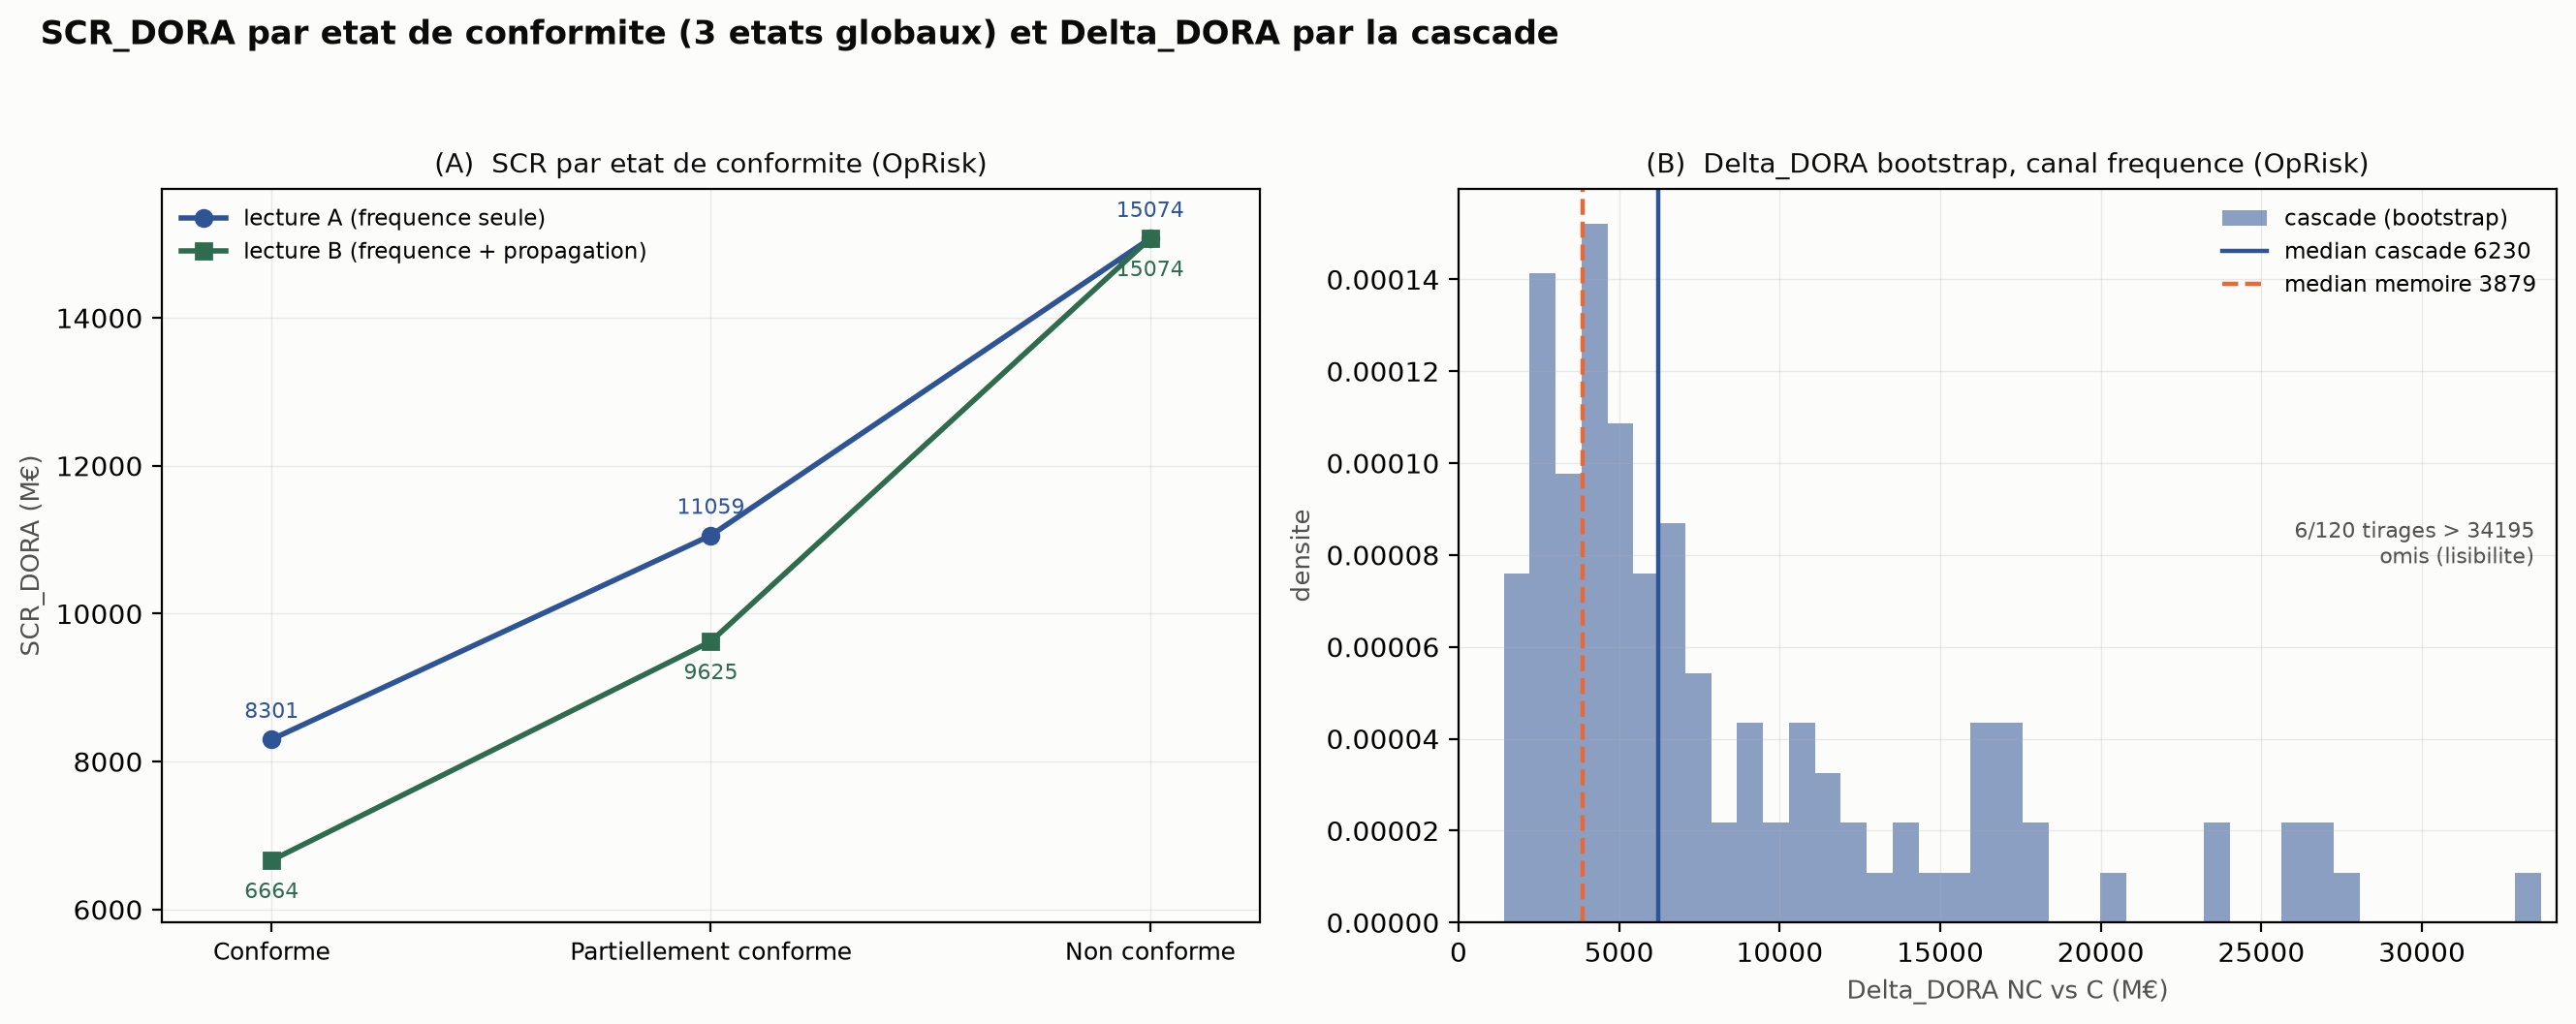
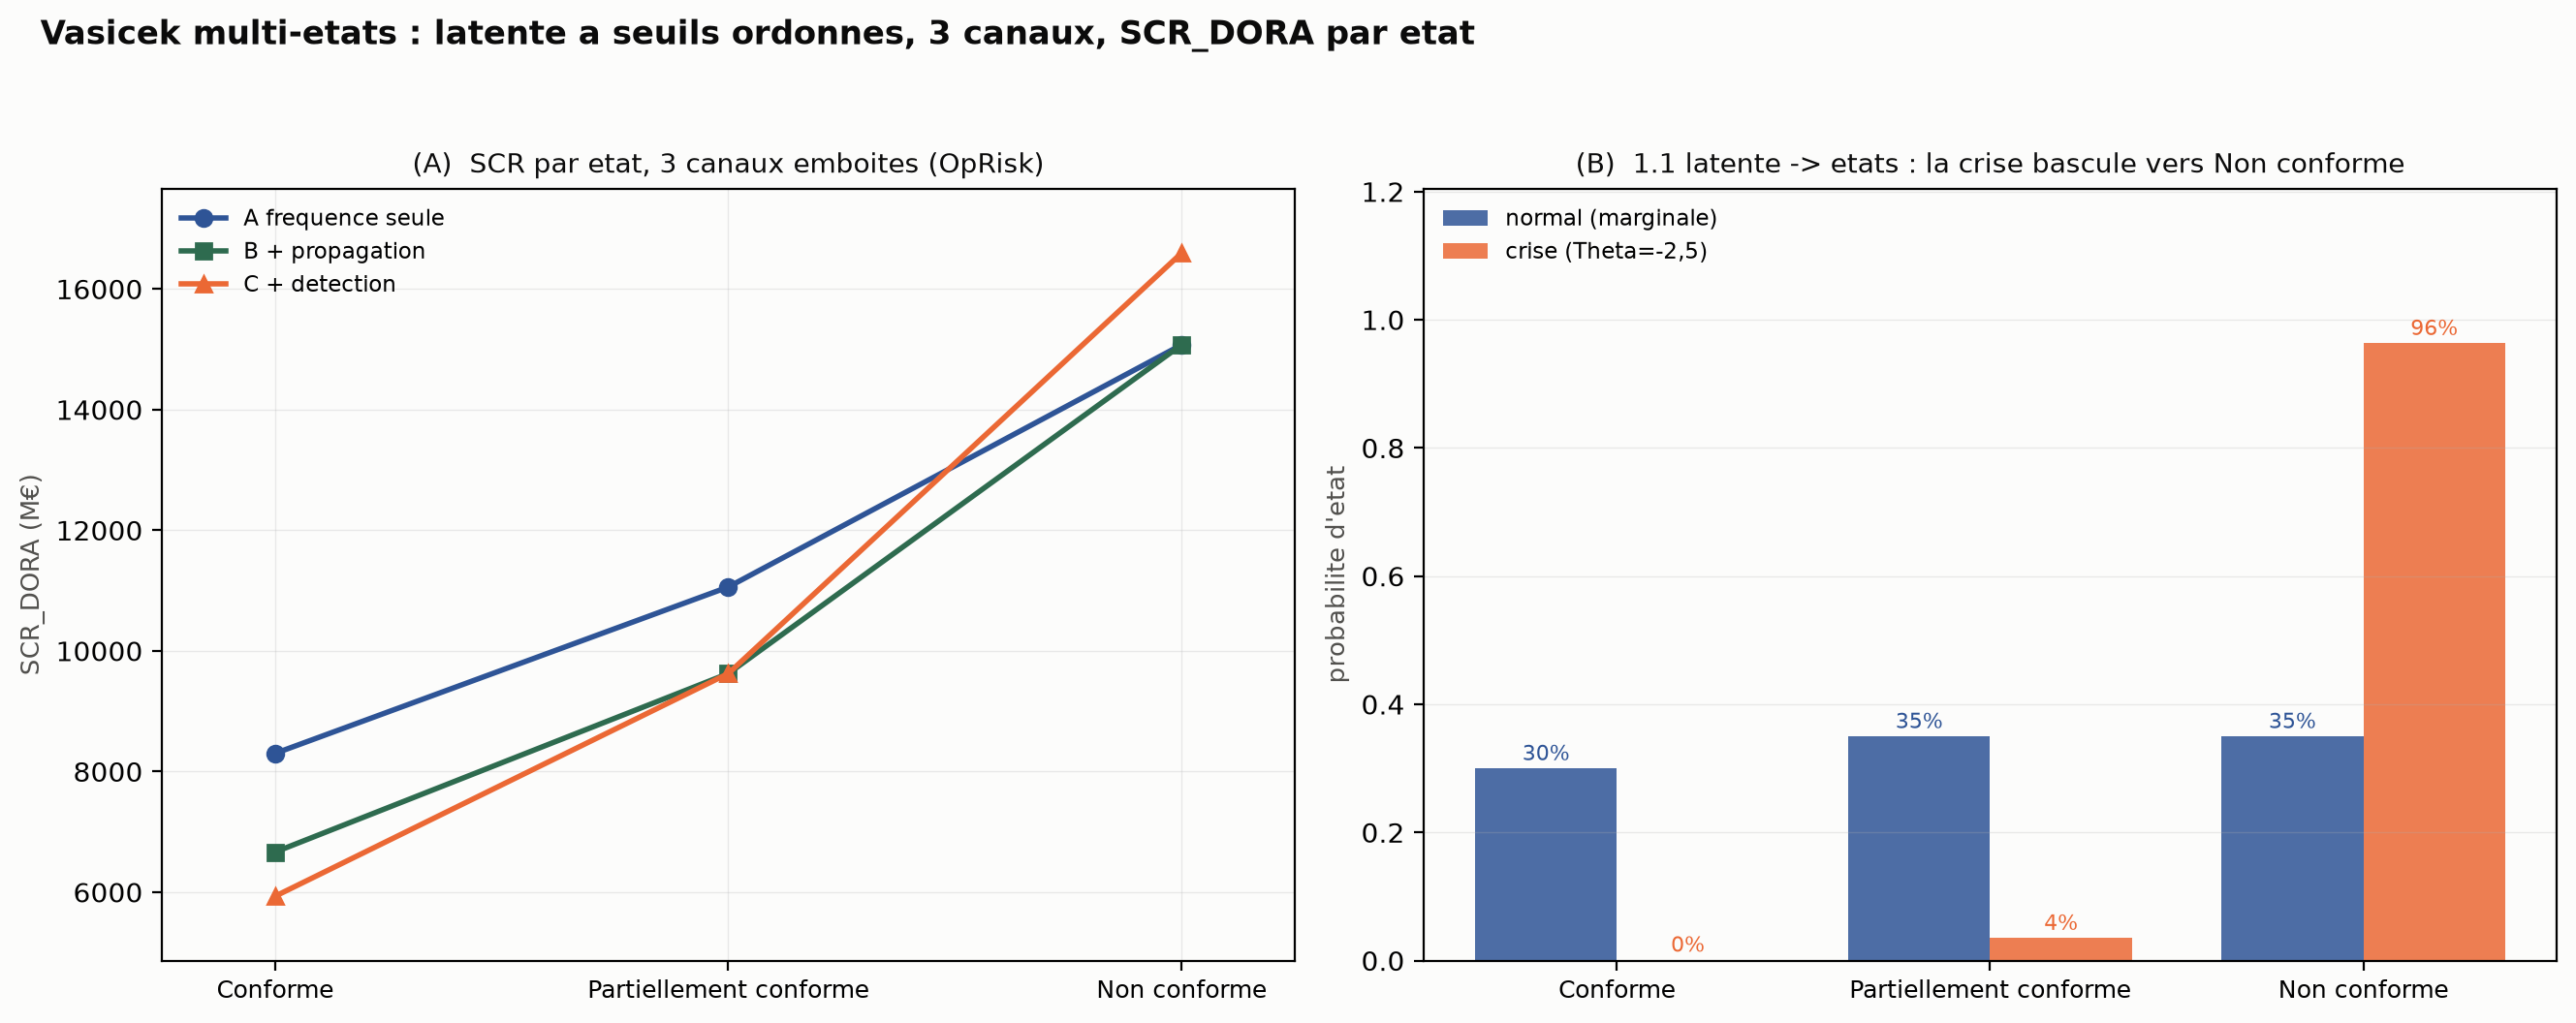
Exploratory : Vasicek multi-etats rigoureux (16, 1.1 + 1.2) + corrections draft probas
Script 16 passe des etiquettes de scenario (16a) au vrai Vasicek multi-etats :
- 1.1 : les 3 etats viennent de deux seuils ordonnes K_bas, K_haut sur une latente
  gaussienne C* = gamma*Theta + sqrt(1-gamma^2)*eps. Seuils fixes par les probas d'etat
  ancrees (NC 35 / PC 35 / C 30). La marginale redonne l'ancrage (controle). Facteur
  systemique Theta : en crise (Theta=-2,5) la masse bascule a 96 % en Non conforme.
  Remplace la latente statique de l'ancien memoire (decision A).
- 1.2 : les 3 canaux sont branches sur l'etat, en lectures emboitees pour rendre chaque
  contribution visible : A frequence (lambda) ; B + propagation (g) ; C + detection (p_u,
  taux de materialite du script 04). Le canal detection (C) se compose avec la frequence :
  isole en lecture separee, multiplicateur modeste non calibre, a valider avec Hugo.
SCR par etat, SCR espere (normal/crise), Delta_DORA bootstrap inchange (OpRisk 6230,
PRC 2995, 100 % > 0). Figure S10 : 3 lectures + bascule des etats. exit 0.

Draft probas conditionnelles : 4 corrections typo/coherence (espacement GBASE en mode
math ; clarification du total ROOT=3,3 incluant P4/P5 ; ponctuation de t(j_m|S) ;
harmonisation de l'estimateur N_{j,.}). PDF a recompiler en local (Tectonic).

diff --git a/exploratory/vasicek_lab/16_scr_multi_etats_global.py b/exploratory/vasicek_lab/16_scr_multi_etats_global.py
@@ -1,49 +1,54 @@
 #!/usr/bin/env python3
 # -*- coding: utf-8 -*-
 """
-16a : SCR_DORA par etat de conformite (3 etats GLOBAUX) + Delta_DORA en euros.
+16 : Vasicek multi-etats. SCR_DORA par etat de conformite + Delta_DORA en euros.
 
-Prolonge le script 13 : la ou 13 comparait 2 etats (conforme S0 vs non-conforme S2),
-on etablit ici le SCR pour les TROIS etats de conformite de l'entite, alignes sur les
-trois scenarios sources de src.frequency.negbin :
+Prolonge 13 (2 etats) et remplace la variable latente statique de l'ancien memoire
+(src/compliance/latent.py, decision A validee : le multi-etats remplace le latent).
+Deux apports par rapport a 16a :
 
-    C  (conforme)               <- S0_conforme     (multiplicateur 1,00)
-    PC (partiellement conforme) <- S1_partiel       (multiplicateurs bornes S1)
-    NC (non conforme)           <- S2_non_conforme  (multiplicateurs bornes S2)
+  1.1  LES ETATS VIENNENT DE SEUILS ORDONNES SUR UNE LATENTE, pas d'etiquettes posees.
+       Une capacite de conformite latente C* ~ N(0,1) se decompose facteur systemique +
+       idiosyncratique (Vasicek) :  C* = gamma*Theta + sqrt(1-gamma^2)*eps.  Deux seuils
+       ordonnes K_bas < K_haut decoupent les trois etats :
+           Non conforme (NC)         si  C* <= K_bas
+           Partiellement conforme(PC) si  K_bas < C* <= K_haut
+           Conforme (C)              si  C* >  K_haut
+       Les seuils sont fixes par les probabilites d'etat ANCREES sur les enquetes de
+       conformite (K_bas = Phi^-1(p_NC), K_haut = Phi^-1(p_NC+p_PC)). Le facteur Theta
+       rend les probabilites d'etat CONDITIONNELLES a l'environnement : une crise cyber
+       (Theta bas) fait basculer la masse vers NC (ce que faisait l'amplification
+       systemique de l'ancien latent, ici a trois etats ordonnes).
 
-Etat GLOBAL a l'entite (tous les piliers dans le meme etat). C'est le cas particulier
-"piliers alignes" du modele par pilier (16b, a venir) : decision B validee, mise en
-scene global d'abord. Aucun taux de transition ici : un etat est une configuration
-figee, la dynamique markovienne est l'etape 17.
+  1.2  L'ETAT PILOTE LES TROIS CANAUX (pas seulement deux) :
+       - FREQUENCE  lambda : multiplicateurs S0/S1/S2 de src.frequency.negbin ;
+       - PROPAGATION g     : une entite plus conforme contient la contagion (g plus bas) ;
+       - DETECTION  p_u    : le taux de MATERIALITE (script 04). Une entite conforme
+         intercepte/remedie tot -> une moindre fraction d'incidents atteint la severite
+         materielle (p_u plus bas) ; non conforme -> detection tardive -> p_u plus haut.
+       Trois lectures emboitees rendent l'apport de chaque canal visible et evitent qu'un
+       canal domine en silence :
+         A frequence seule (comparable au memoire) ; B + propagation ; C + detection.
 
-DEUX CANAUX de conformite (comme 13) :
-  1. FREQUENCE : l'etat pilote lambda via les multiplicateurs sources (canal du memoire).
-  2. PROPAGATION : une entite plus conforme CONTIENT mieux la contagion -> gain g plus
-     faible. Canal propre a la cascade (Vasicek dirige).
-On presente donc DEUX lectures :
-  - lecture A (frequence seule) : g identique aux 3 etats (g=0,90), seul lambda change.
-    C'est la lecture directement comparable au memoire.
-  - lecture B (frequence + propagation) : g croit de C a NC (contenue -> relachee).
-    C'est l'apport de la cascade.
+ETAT GLOBAL a l'entite (tous piliers alignes). Le passage PAR PILIER (latentes C*_j
+correlees par Theta, canaux par pilier) est le script 16b, qui demande d'ouvrir le moteur
+aux parametres par pilier.
 
-Delta_DORA(etat) = SCR(etat) - SCR(C), a graine MC COMMUNE entre etats (common random
-numbers : l'ecart ne vient que du changement d'etat, pas du bruit Monte-Carlo). Le
-Delta_DORA de tete est NC vs C ; PC vs C donne le surcout intermediaire.
-Bootstrap 2 niveaux (multiplicateurs + severite) comme 13/14 pour l'IC90 honnete.
+PORTEE. Severite euros = SAS OpRisk (branche via euro_cascade_model). Choix de modelisation
+NON calibres, presentes en lecture separee ou en sensibilite : le triplet de gains
+(g_C<g_PC<g_NC), le triplet de detection (p_u croissant de C a NC), les probabilites d'etat
+ancrees et gamma. Delta_DORA a graine MC COMMUNE entre etats (l'ecart ne vient que du
+changement d'etat). Ne touche ni src/ ni memoire/.
 
-PORTEE. Meme calibration euro et memes biais que le memoire. Severite euros = SAS OpRisk
-(branche via euro_cascade_model). Le triplet de gains (g_C, g_PC, g_NC) de la lecture B
-est un CHOIX de modelisation non calibre (monotone, g_NC=0,90 de base) : presente en
-lecture separee, pas comme une mesure. Ne touche ni src/ ni memoire/.
-
-Sortie : diagnostics (SCR par etat, 2 lectures ; Delta_DORA + IC90) + figure
-S10_scr_multi_etats.png. Verifie exit 0.
+Sortie : diagnostics (probas d'etat normal/crise ; SCR par etat, 3 lectures ; SCR espere ;
+Delta_DORA + IC90) + figure S10_scr_multi_etats.png. Verifie exit 0.
 """
 
 import os
 import sys
 
 import numpy as np
+from scipy.stats import norm
 import matplotlib as mpl
 import matplotlib.pyplot as plt
 
@@ -54,69 +59,107 @@ import euro_cascade_model as ec                              # noqa: E402
 from euro_cascade_model import PARAMS, MEMOIRE_DELTA, var    # noqa: E402
 
 W = 74
-
-# --- les 3 etats globaux : scenario source + gain de propagation par lecture -------
 ETATS = ["C", "PC", "NC"]
 LABEL = {"C": "Conforme", "PC": "Partiellement conforme", "NC": "Non conforme"}
 SCENARIO = {"C": "S0_conforme", "PC": "S1_partiel", "NC": "S2_non_conforme"}
 
-G_FREQ = {"C": 0.90, "PC": 0.90, "NC": 0.90}     # lecture A : g constant (canal frequence seul)
-G_PROP = {"C": 0.45, "PC": 0.68, "NC": 0.90}     # lecture B : g croit de C a NC (choix, non calibre)
+# --- 1.1 latente : probas d'etat ancrees + facteur systemique -----------------------
+# Ancrage (illustratif, sources des enquetes de l'ancien latent.py : Deloitte European
+# Survey 2025, ESA dry-run 2024 ; ~50 % pas pleinement conformes fin 2025).
+P_ETAT = {"NC": 0.35, "PC": 0.35, "C": 0.30}     # somme = 1
+GAMMA = 0.68                                      # charge systemique (proxy concentration cloud)
+K_BAS = norm.ppf(P_ETAT["NC"])                    # C* <= K_bas -> NC
+K_HAUT = norm.ppf(P_ETAT["NC"] + P_ETAT["PC"])    # C* > K_haut -> C
+THETA_CRISE = -2.5                                # environnement de crise systemique
+
+# --- 1.2 les trois canaux, par etat --------------------------------------------------
+G_FREQ = {"C": 0.90, "PC": 0.90, "NC": 0.90}      # lecture A : g constant (frequence seule)
+G_PROP = {"C": 0.45, "PC": 0.68, "NC": 0.90}      # lecture B : g croit de C a NC (non calibre)
+PU_MULT = {"C": 0.85, "PC": 1.00, "NC": 1.20}     # lecture C : detection (p_u module, non calibre)
 
 BOOT = {"OPRISK": dict(B=120, ny=20_000), "PRC": dict(B=60, ny=3_000)}
-NY_DET = 80_000                                   # resolution des SCR deterministes
+NY_DET = 80_000
 
 
 def titre(s):
     print("\n" + "=" * W + f"\n{s}\n" + "=" * W)
 
 
-def scr_state(source, etat, g, xi, sigma, ny, seed):
-    """SCR (VaR 99,5 %) d'un etat de conformite, graine donnee (CRN entre etats)."""
+def etat_probs(theta):
+    """Probabilites (NC, PC, C) conditionnelles au facteur systemique theta (Vasicek)."""
+    denom = np.sqrt(1.0 - GAMMA ** 2)
+    p_nc = norm.cdf((K_BAS - GAMMA * theta) / denom)
+    p_ncpc = norm.cdf((K_HAUT - GAMMA * theta) / denom)
+    return {"NC": p_nc, "PC": p_ncpc - p_nc, "C": 1.0 - p_ncpc}
+
+
+def scr_state(source, etat, g, pu_mult, xi, sigma, ny, seed):
+    """SCR (VaR 99,5 %) d'un etat, canaux (lambda, g, p_u) ; graine donnee (CRN entre etats)."""
     sp = PARAMS[source]
     lam = ec.lambda_scenario(source, SCENARIO[etat], mode="center")
+    p_u = min(0.999, sp["p_u"] * pu_mult)
     rng = np.random.default_rng(seed)
-    return var(ec.simulate_euro(lam, g, xi, sigma, sp["u"], sp["p_u"], sp["cap"], ny, rng))
+    return var(ec.simulate_euro(lam, g, xi, sigma, sp["u"], p_u, sp["cap"], ny, rng))
 
 
-# ============================================================ SCR par etat (deterministe)
-titre("SCR_DORA par etat de conformite (deterministe, graine MC commune entre etats)")
-scr_det = {}   # scr_det[(source, lecture, etat)] = SCR
+# ============================================================ 1.1 la latente et ses etats
+titre("1.1  Latente de conformite : seuils ordonnes et probabilites d'etat")
+print(f"  C* = gamma*Theta + sqrt(1-gamma^2)*eps,  gamma = {GAMMA}")
+print(f"  seuils : K_bas = Phi^-1(p_NC) = {K_BAS:+.3f}   K_haut = Phi^-1(p_NC+p_PC) = {K_HAUT:+.3f}")
+print(f"  ancrage probas d'etat : NC {P_ETAT['NC']:.0%}  PC {P_ETAT['PC']:.0%}  C {P_ETAT['C']:.0%}")
+pn = P_ETAT                                       # marginale = ancrage (par construction)
+pc = etat_probs(THETA_CRISE)                      # conditionnelle a une crise systemique
+print(f"\n  {'etat':<26}{'P (normal, marginale)':>22}{'P (crise, Theta=-2,5)':>24}")
+for e in ETATS:
+    print(f"  {LABEL[e]:<26}{pn[e]:>21.1%}{pc[e]:>23.1%}")
+print("  La marginale (integree sur Theta) redonne l'ancrage : controle de coherence.")
+print("  Lecture : une crise systemique deplace la masse vers Non conforme (bascule DORA).")
+
+
+# ============================================================ 1.2 + SCR par etat (3 lectures)
+titre("1.2  SCR_DORA par etat, 3 canaux emboites (graine MC commune entre etats)")
+LECTURES = {"A": (G_FREQ, {e: 1.0 for e in ETATS}),   # frequence seule
+            "B": (G_PROP, {e: 1.0 for e in ETATS}),   # + propagation
+            "C": (G_PROP, PU_MULT)}                     # + detection
+LEC_LAB = {"A": "freq", "B": "freq+prop", "C": "freq+prop+detec"}
+scr_det = {}
 for source in ("OPRISK", "PRC"):
     sp = PARAMS[source]
-    print(f"\n  {source}  (severite {source}, entite type du memoire)")
-    print(f"  {'etat':<26}{'SCR lect.A (freq)':>20}{'SCR lect.B (freq+prop)':>24}")
+    print(f"\n  {source}  (severite {source})")
+    print(f"  {'etat':<26}{'SCR A (freq)':>15}{'SCR B (+prop)':>15}{'SCR C (+detec)':>16}")
     seed_src = 4242
-    for etat in ETATS:
-        va = scr_state(source, etat, G_FREQ[etat], sp["xi"], sp["sigma"], NY_DET, seed_src)
-        vb = scr_state(source, etat, G_PROP[etat], sp["xi"], sp["sigma"], NY_DET, seed_src)
-        scr_det[(source, "A", etat)] = va
-        scr_det[(source, "B", etat)] = vb
-        print(f"  {LABEL[etat]:<26}{va:>18.0f} M{vb:>22.0f} M")
-    # deltas vs C
-    for lect in ("A", "B"):
+    for e in ETATS:
+        row = []
+        for lect in ("A", "B", "C"):
+            gmap, pumap = LECTURES[lect]
+            v = scr_state(source, e, gmap[e], pumap[e], sp["xi"], sp["sigma"], NY_DET, seed_src)
+            scr_det[(source, lect, e)] = v
+            row.append(v)
+        print(f"  {LABEL[e]:<26}{row[0]:>13.0f} M{row[1]:>13.0f} M{row[2]:>14.0f} M")
+    # Delta et SCR espere (lecture C, la plus complete), poids = probas d'etat normal
+    for lect in ("A", "C"):
         c = scr_det[(source, lect, "C")]
         d_pc = scr_det[(source, lect, "PC")] - c
         d_nc = scr_det[(source, lect, "NC")] - c
-        print(f"    lecture {lect} : Delta_DORA(PC vs C) = {d_pc:6.0f} M   "
-              f"Delta_DORA(NC vs C) = {d_nc:6.0f} M")
+        esp_n = sum(pn[e] * scr_det[(source, lect, e)] for e in ETATS)
+        esp_c = sum(pc[e] * scr_det[(source, lect, e)] for e in ETATS)
+        print(f"    lecture {lect} ({LEC_LAB[lect]}): Delta(PC vs C)={d_pc:6.0f}  Delta(NC vs C)={d_nc:6.0f}"
+              f"  |  SCR espere normal={esp_n:6.0f}  crise={esp_c:6.0f} M")
 
 
 # ============================================================ Delta_DORA bootstrap (canal frequence)
 titre("Delta_DORA bootstrap 2 niveaux (canal FREQUENCE, lecture A, g=0,90 fixe)")
 print("  Comparable au memoire : la conformite agit sur la frequence (S0/S1/S2).")
-boot = {}   # boot[(source, cible)] = array de Delta_DORA, cible in {PC, NC}
+boot = {}
 for source in ("OPRISK", "PRC"):
     cfg = BOOT[source]
     sp = PARAMS[source]
     orng = np.random.default_rng(20260716)
     acc = {"PC": [], "NC": []}
     for b in range(cfg["B"]):
-        # niveau 1 : multiplicateurs (S0 fixe (1,1) ; S1, S2 tires dans leurs bornes)
         lam = {e: ec.lambda_scenario(source, SCENARIO[e], mode="sample", rng=orng) for e in ETATS}
-        # niveau 2 : severite (xi, sigma dans IC90)
         xi_b, sg_b = ec.sample_severity_params(source, orng)
-        seed_b = 2000 + b                                    # meme graine tous etats -> CRN
+        seed_b = 2000 + b
         v = {}
         for e in ETATS:
             rng_e = np.random.default_rng(seed_b)
@@ -129,8 +172,7 @@ for source in ("OPRISK", "PRC"):
         boot[(source, cible)] = d
         med = np.median(d)
         lo, hi = np.percentile(d, [5, 95])
-        print(f"\n  {source} - Delta_DORA({cible} vs C)  "
-              f"({cfg['B']} tirages x {cfg['ny']:,} annees) :")
+        print(f"\n  {source} - Delta_DORA({cible} vs C)  ({cfg['B']} tirages x {cfg['ny']:,} annees) :")
         print(f"    median = {med:8.0f} M EUR   IC90% [{lo:.0f} ; {hi:.0f}]   "
               f"part > 0 : {100.0 * (d > 0).mean():.0f}%")
     ref = MEMOIRE_DELTA[source]
@@ -149,47 +191,48 @@ ACCENT, BLUE, GREEN, GREY = "#eb6834", "#2E5496", "#2E6B4F", "#a9a79e"
 
 fig, (axA, axB) = plt.subplots(1, 2, figsize=(13.4, 5.3))
 
-# panneau A : echelle du SCR sur les 3 etats (OpRisk), 2 lectures
+# panneau A : echelle du SCR sur les 3 etats (OpRisk), 3 lectures emboitees
 x = np.arange(len(ETATS))
 ya = [scr_det[("OPRISK", "A", e)] for e in ETATS]
 yb = [scr_det[("OPRISK", "B", e)] for e in ETATS]
-axA.plot(x, ya, "-o", color=BLUE, lw=2.0, ms=6, label="lecture A (frequence seule)")
-axA.plot(x, yb, "-s", color=GREEN, lw=2.0, ms=6, label="lecture B (frequence + propagation)")
-for xi_, va_, vb_ in zip(x, ya, yb):
-    axA.annotate(f"{va_:.0f}", (xi_, va_), textcoords="offset points", xytext=(0, 8),
-                 ha="center", fontsize=8, color=BLUE)
-    axA.annotate(f"{vb_:.0f}", (xi_, vb_), textcoords="offset points", xytext=(0, -14),
-                 ha="center", fontsize=8, color=GREEN)
-_lo = min(min(ya), min(yb))
-_hi = max(max(ya), max(yb))
-axA.set_ylim(_lo - 0.10 * (_hi - _lo), _hi + 0.08 * (_hi - _lo))
+ycc = [scr_det[("OPRISK", "C", e)] for e in ETATS]
+axA.plot(x, ya, "-o", color=BLUE, lw=2.0, ms=6, label="A frequence seule")
+axA.plot(x, yb, "-s", color=GREEN, lw=2.0, ms=6, label="B + propagation")
+axA.plot(x, ycc, "-^", color=ACCENT, lw=2.0, ms=6, label="C + detection")
+_lo = min(min(ya), min(yb), min(ycc))
+_hi = max(max(ya), max(yb), max(ycc))
+axA.set_ylim(_lo - 0.10 * (_hi - _lo), _hi + 0.10 * (_hi - _lo))
 axA.set_xlim(-0.25, len(ETATS) - 0.75)
 axA.set_xticks(x)
 axA.set_xticklabels([LABEL[e] for e in ETATS], fontsize=9)
 axA.set_ylabel("SCR_DORA (M€)", fontsize=9.5, color=INK2)
-axA.set_title("(A)  SCR par etat de conformite (OpRisk)", fontsize=10, color=INK, pad=6)
+axA.set_title("(A)  SCR par etat, 3 canaux emboites (OpRisk)", fontsize=10, color=INK, pad=6)
 axA.legend(fontsize=8.2, frameon=False, loc="upper left")
 axA.grid(alpha=0.25, lw=0.5)
 
-# panneau B : distribution bootstrap du Delta_DORA (NC vs C, OpRisk) + repere memoire
-d_op = boot[("OPRISK", "NC")]
-cut = float(np.percentile(d_op, 95))
-n_omis = int((d_op > cut).sum())
-axB.hist(d_op[d_op <= cut], bins=40, density=True, color=BLUE, alpha=0.55,
-         label="cascade (bootstrap)")
-axB.axvline(np.median(d_op), color=BLUE, lw=1.6, label=f"median cascade {np.median(d_op):.0f}")
-ref = MEMOIRE_DELTA["OPRISK"]
-axB.axvline(ref["median"], color=ACCENT, lw=1.6, ls="--", label=f"median memoire {ref['median']:.0f}")
-axB.set_xlim(0, cut)
-axB.text(0.98, 0.55, f"{n_omis}/{len(d_op)} tirages > {cut:.0f}\nomis (lisibilite)",
-         transform=axB.transAxes, ha="right", va="top", fontsize=7.8, color=INK2)
-axB.set_xlabel("Delta_DORA NC vs C (M€)", fontsize=9.5, color=INK2)
-axB.set_ylabel("densite", fontsize=9.5, color=INK2)
-axB.set_title("(B)  Delta_DORA bootstrap, canal frequence (OpRisk)", fontsize=10, color=INK, pad=6)
-axB.legend(fontsize=8.2, frameon=False)
-axB.grid(alpha=0.25, lw=0.5)
+# panneau B : la latente -> probabilites d'etat, normal vs crise
+xb = np.arange(len(ETATS))
+wbar = 0.38
+pn_v = [pn[e] for e in ETATS]
+pc_v = [pc[e] for e in ETATS]
+axB.bar(xb - wbar / 2, pn_v, wbar, color=BLUE, alpha=0.85, label="normal (marginale)")
+axB.bar(xb + wbar / 2, pc_v, wbar, color=ACCENT, alpha=0.85, label="crise (Theta=-2,5)")
+for xi_, v in zip(xb - wbar / 2, pn_v):
+    axB.annotate(f"{v:.0%}", (xi_, v), textcoords="offset points", xytext=(0, 3),
+                 ha="center", fontsize=8, color=BLUE)
+for xi_, v in zip(xb + wbar / 2, pc_v):
+    axB.annotate(f"{v:.0%}", (xi_, v), textcoords="offset points", xytext=(0, 3),
+                 ha="center", fontsize=8, color=ACCENT)
+axB.set_xticks(xb)
+axB.set_xticklabels([LABEL[e] for e in ETATS], fontsize=9)
+axB.set_ylabel("probabilite d'etat", fontsize=9.5, color=INK2)
+axB.set_ylim(0, max(pc_v) * 1.25)
+axB.set_title("(B)  1.1 latente -> etats : la crise bascule vers Non conforme",
+              fontsize=10, color=INK, pad=6)
+axB.legend(fontsize=8.2, frameon=False, loc="upper left")
+axB.grid(alpha=0.25, lw=0.5, axis="y")
 
-fig.suptitle("SCR_DORA par etat de conformite (3 etats globaux) et Delta_DORA par la cascade",
+fig.suptitle("Vasicek multi-etats : latente a seuils ordonnes, 3 canaux, SCR_DORA par etat",
              fontsize=12.3, fontweight="bold", color=INK, x=0.02, ha="left", y=0.99)
 fig.tight_layout(rect=[0, 0, 1, 0.95])
 

diff --git a/exploratory/cascade_qualitative/draft_probas_conditionnelles.tex b/exploratory/cascade_qualitative/draft_probas_conditionnelles.tex
@@ -161,7 +161,7 @@ produit de probabilités conditionnelles. Exemple, incident entré en P1 :
 \mathbb P(\text{propagation P1}\to\text{P2}) &= e_1\,\tfrac{\text{TRANS}[\text{P1}][\text{P2}]}{s_1} = 0{,}90\times\tfrac{0{,}80}{2{,}60} = 0{,}277 .
 \end{align}
 La \textbf{sévérité} de l'incident se déduit des piliers atteints, via GBASE
-(P1$=6$, P2$=4$, P3$=3$, P4$=7$, P5$=1$) : \og{}P1 seule\fg{} coûte $6$ ; si la cascade atteint
+($\text{P1}=6$, $\text{P2}=4$, $\text{P3}=3$, $\text{P4}=7$, $\text{P5}=1$) : \og{}P1 seule\fg{} coûte $6$ ; si la cascade atteint
 aussi P2, le coût devient $6+4=10$. La loi conditionnelle des sévérités est donc
 \emph{entièrement déterminée} par les probabilités conditionnelles de propagation.
 
@@ -218,7 +218,8 @@ se lit dans le dénominateur, qui ne parcourt que les permutations de $S$) :
 \end{equation}
 
 \noindent\textbf{Exemple chiffré, $S=\{\text{P1},\text{P2},\text{P3}\}$.} Avec
-$\text{ROOT}=\{1{,}0\,;0{,}6\,;0{,}5\}$ pour (P1, P2, P3) et la matrice TRANS du modèle :
+$\text{ROOT}=\{1{,}0\,;0{,}6\,;0{,}5\}$ pour (P1, P2, P3), le reste du système (P4, P5)
+portant le total des amorces à $\sum_k\text{ROOT}[k]=3{,}3$, et la matrice TRANS du modèle :
 
 \begin{table}[h]\centering\small
 \renewcommand{\arraystretch}{1.3}
@@ -263,7 +264,7 @@ $j_1,\dots,j_m$, puis s'éteint sans atteindre de pilier extérieur à $S$\fg{}.
 avec $\pi(j_1)=\text{ROOT}[j_1]/\sum_k\text{ROOT}[k]$ la loi d'amorce ($\sum_k\text{ROOT}[k]=3{,}3$), la
 propagation $\mathbb P(j'\mid j)$ de la section~3, et
 \[
-t(j_m\mid S)\;=\;1 - e_{j_m}\,\frac{\sum_{j'\notin S}\text{TRANS}[j_m][j']}{s_{j_m}}
+t(j_m\mid S)\;=\;1 - e_{j_m}\,\frac{\sum_{j'\notin S}\text{TRANS}[j_m][j']}{s_{j_m}}\;.
 \]
 la probabilité de s'éteindre au dernier pilier \emph{sans sortir de $S$}. Elle dépend de
 l'ensemble : sortir vers un pilier hors de $S$ l'agrandirait, revenir sur un pilier déjà touché
@@ -316,7 +317,7 @@ transitions observées, la probabilité conditionnelle s'estime \emph{de la mêm
 comptage normalisé, l'estimateur classique des transitions d'une chaîne de
 Markov~\cite{AndersonGoodman1957} :
 \[
-\widehat{\mathbb P}(j' \mid j) \;=\; \frac{N_{j,j'}}{\sum_{k} N_{j,k}} .
+\widehat{\mathbb P}(j' \mid j) \;=\; \frac{N_{j,j'}}{N_{j,\cdot}}\;,\qquad N_{j,\cdot} = \sum_{k} N_{j,k}\;.
 \]
 La structure du modèle ne change pas ; seules les entrées deviennent empiriques.
 